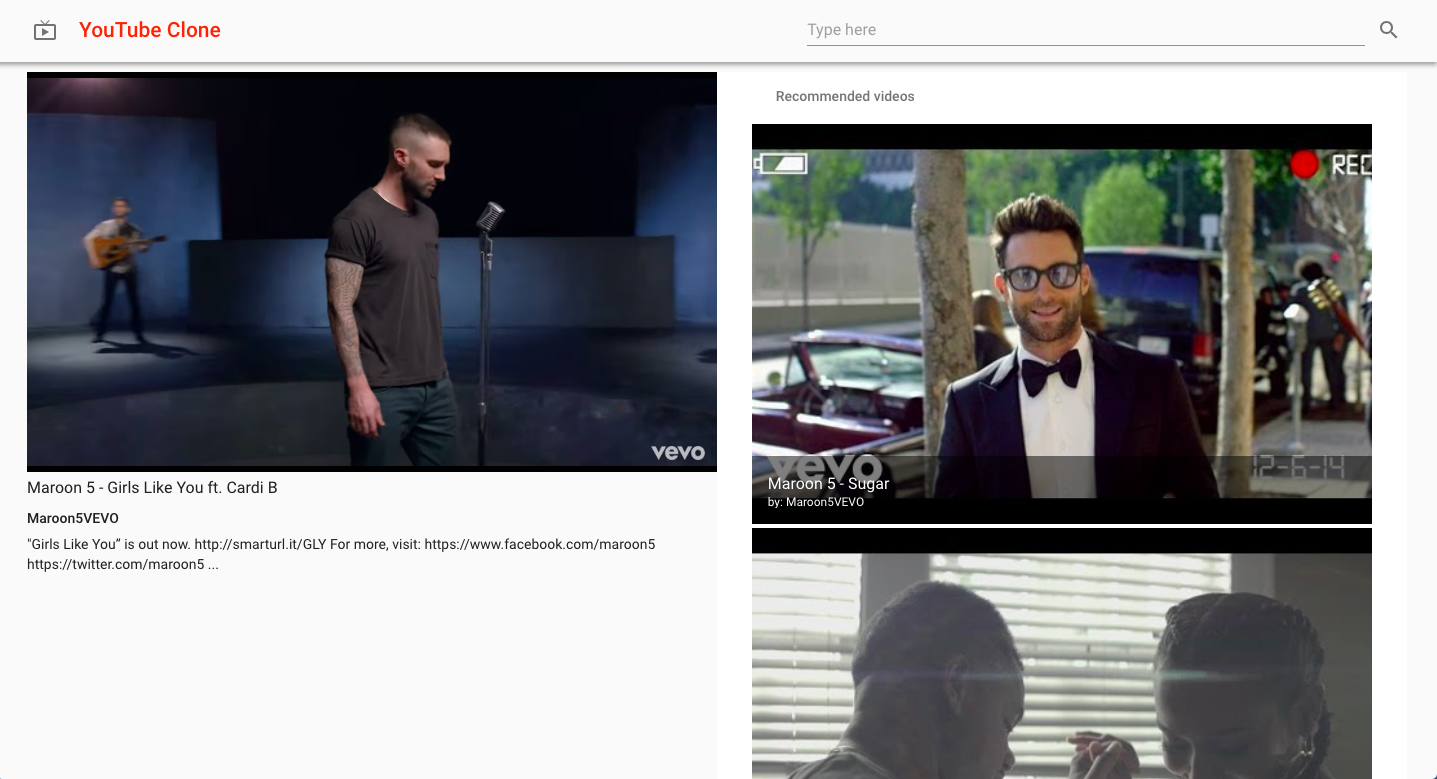
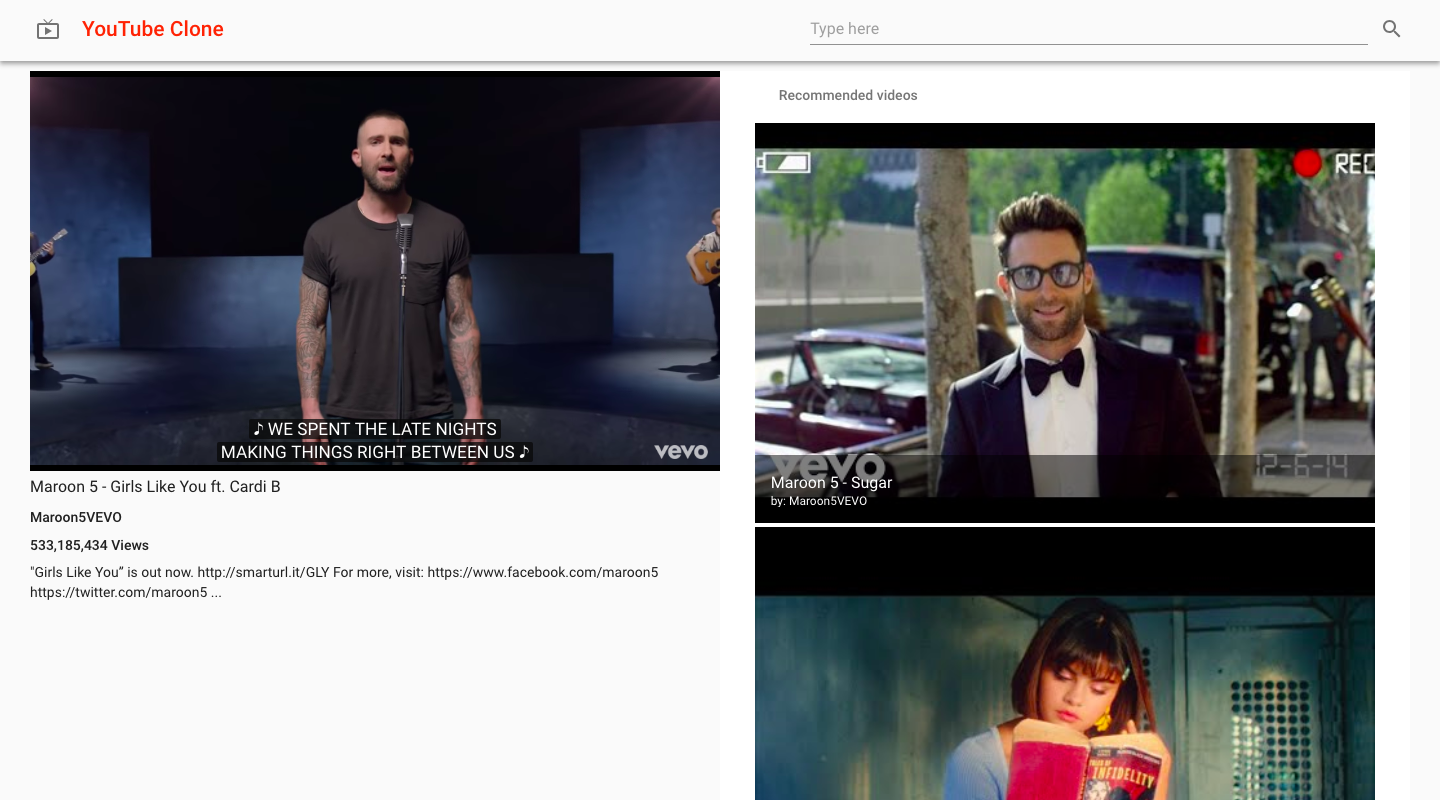
Videos views in Player component

diff --git a/src/components/Player.js b/src/components/Player.js
@@ -7,7 +7,7 @@ import Typography from '@material-ui/core/Typography';
 import Hidden from '@material-ui/core/Hidden';
 import { styles as recommendedVideosStyle, TitlebarGridList } from './Videos';
 
-import { getRecommendedVideos } from '../api';
+import { getRecommendedVideos, getViews } from '../api';
 
 const RecommendedVideos = withStyles(recommendedVideosStyle)(TitlebarGridList);
 
@@ -25,6 +25,7 @@ class Player extends Component {
     super(props);
     this.state = {
       video: this.props.video, // Video to play
+      views: '',
       recommendedVideos: null
     };
     this.classes = this.props.classes;
@@ -38,11 +39,19 @@ class Player extends Component {
   }
 
   componentDidMount() {
+    this.getViews();
     this.fetchVideos();
+  }
+
+  getViews() {
+    getViews(this.state.video.id)
+      .then(views => this.setState({ views }))
+      .catch(err => alert(err.message));
   }
 
   changeVideo(video) {
     this.setState({ video });
+    this.getViews();
     this.fetchVideos();
   }
 
@@ -68,6 +77,9 @@ class Player extends Component {
               </Typography>
               <Typography variant="body2" gutterBottom>
                 {this.state.video.author}
+              </Typography>
+              <Typography variant="body2" gutterBottom>
+                { !this.state.views || this.state.views + ' Views'}
               </Typography>
               <Hidden smDown>
                 <Typography variant="body1" gutterBottom align="left">

diff --git a/src/api.js b/src/api.js
@@ -26,12 +26,12 @@ export const getVideos = async (term) => {
   }
 };
 
-export const getVideoInfo = async (id) => {
-  const uri = `${base}/videos?key=${API_KEY}&part=snippet&statistics&id=${id}&type=video`;
+export const getViews = async (id) => {
+  const uri = `${base}/videos?key=${API_KEY}&part=snippet,statistics&id=${id}&type=video`;
   try {
     const response = await fetch(uri);
     const json = await response.json();
-    return json;
+    return Number(json.items[0].statistics.viewCount).toLocaleString();
   } catch (err) {
     throw err;
   }
